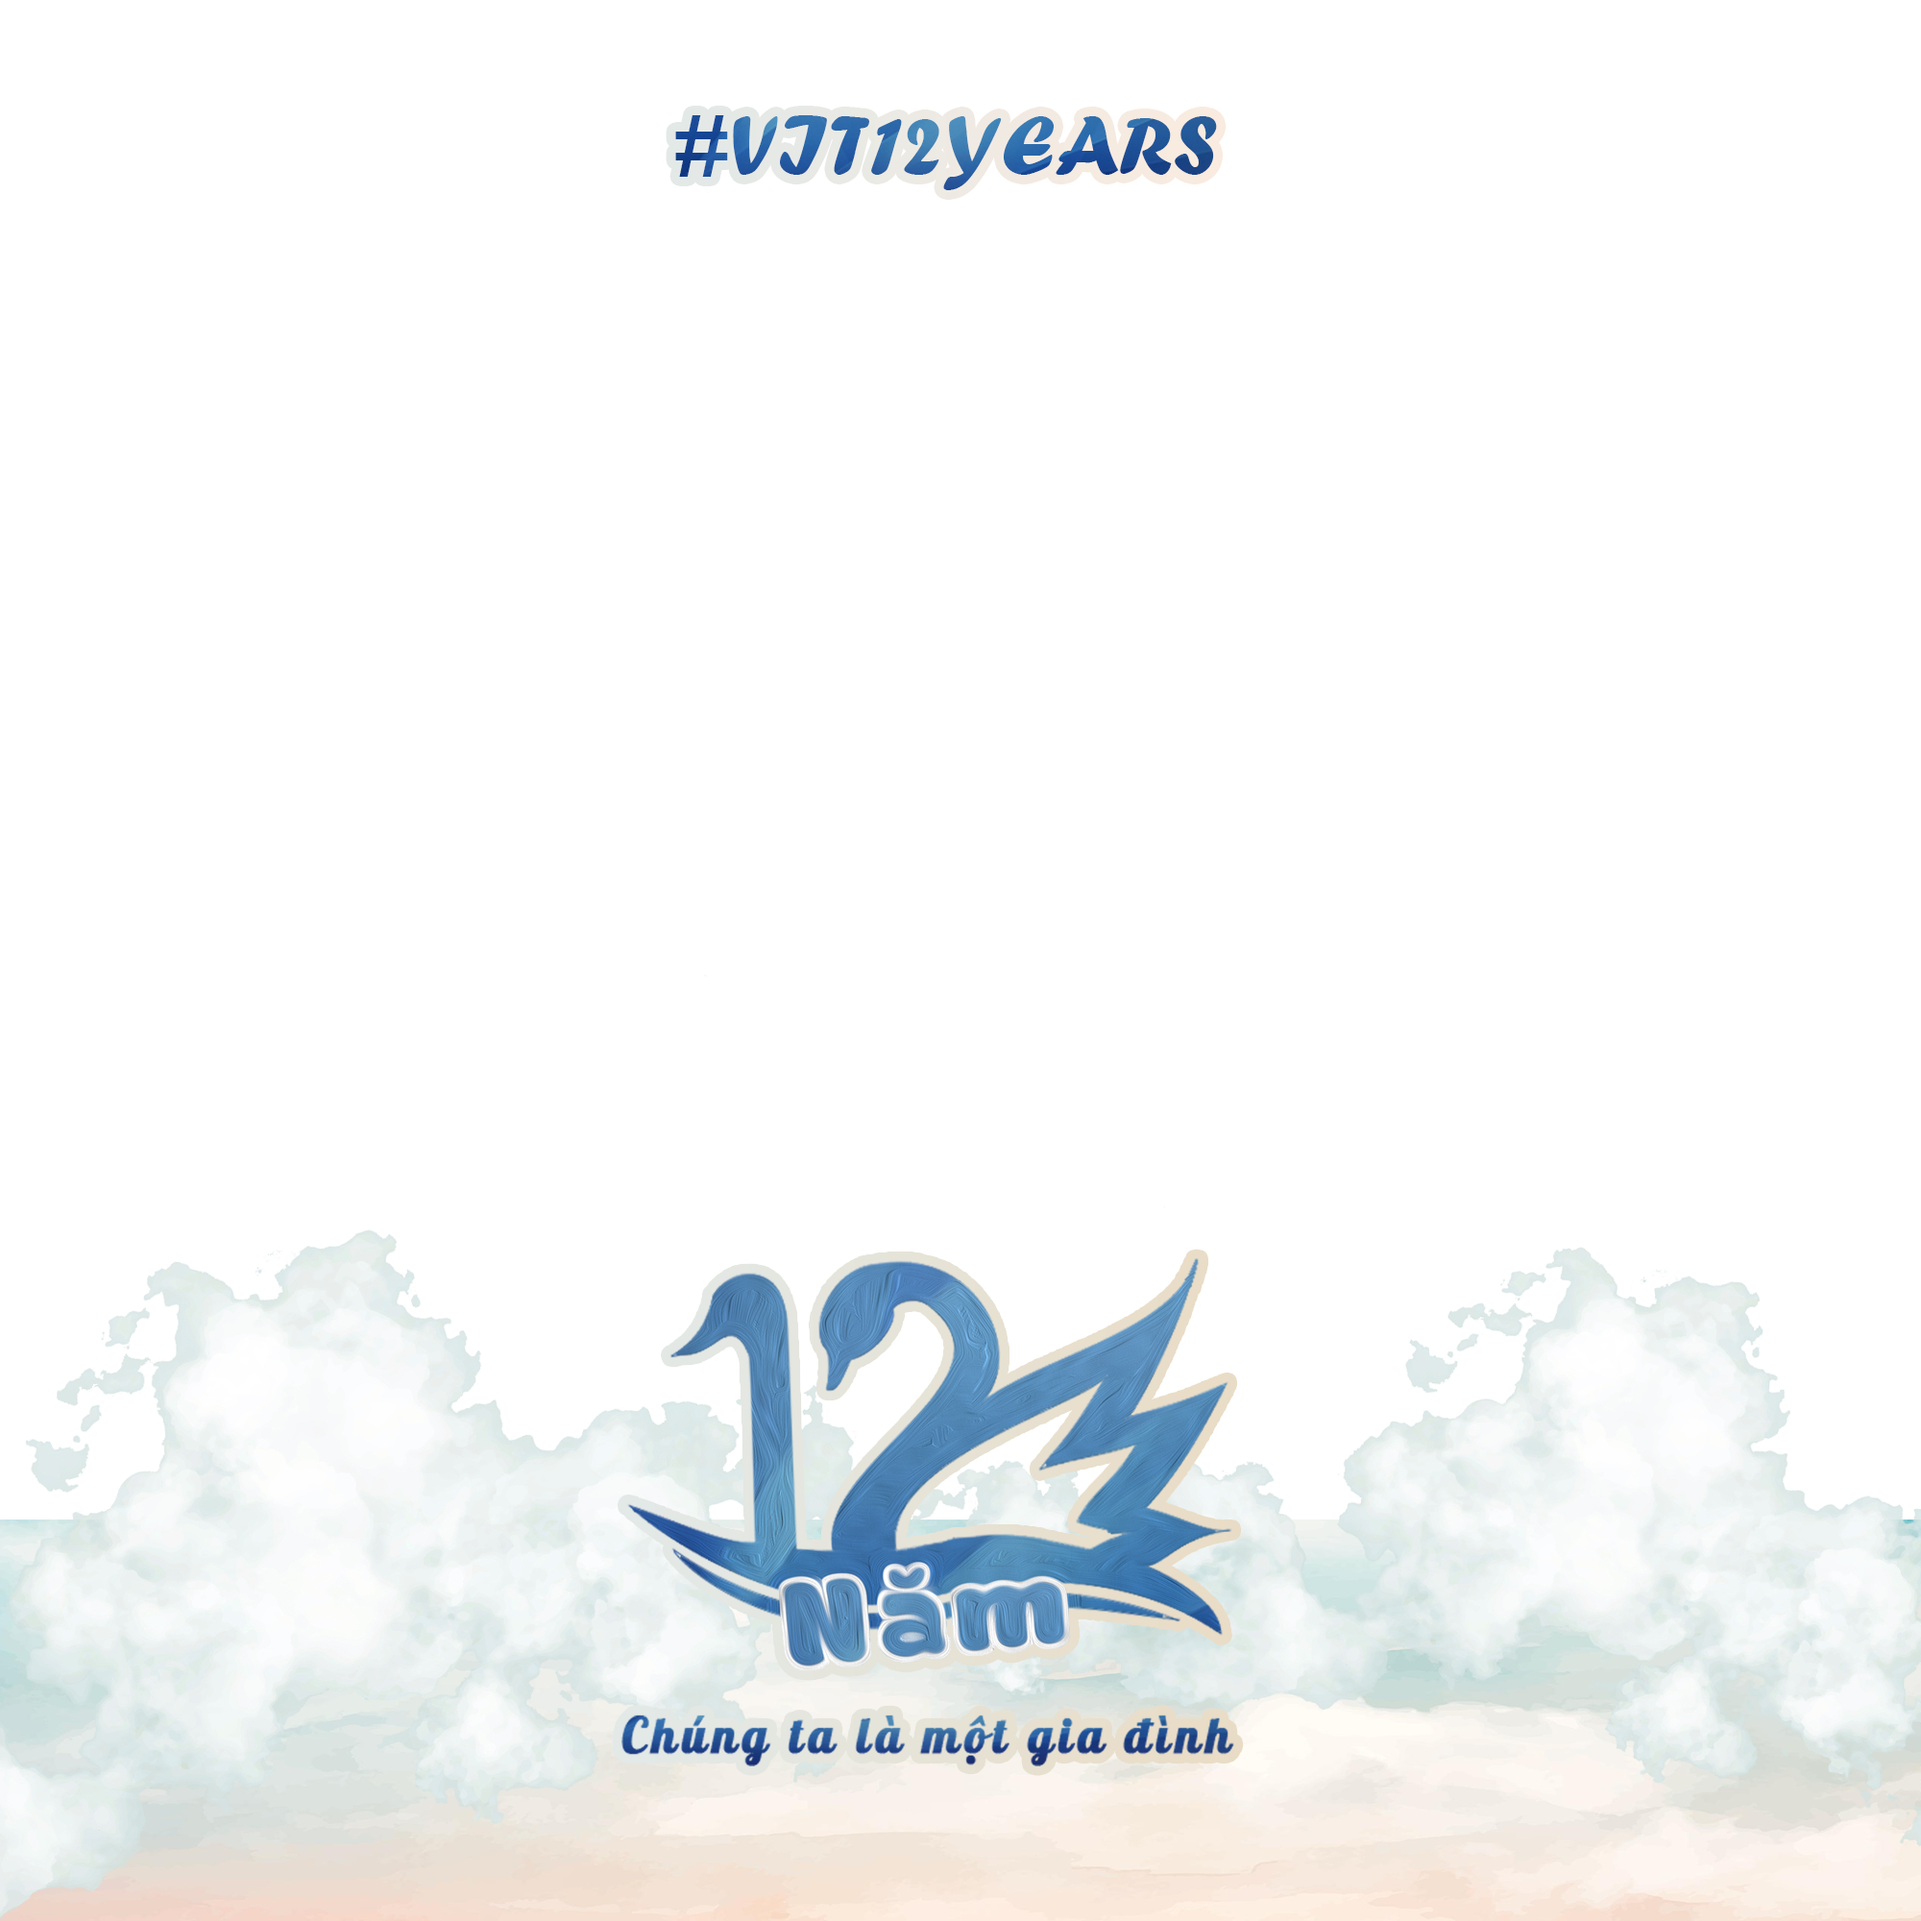
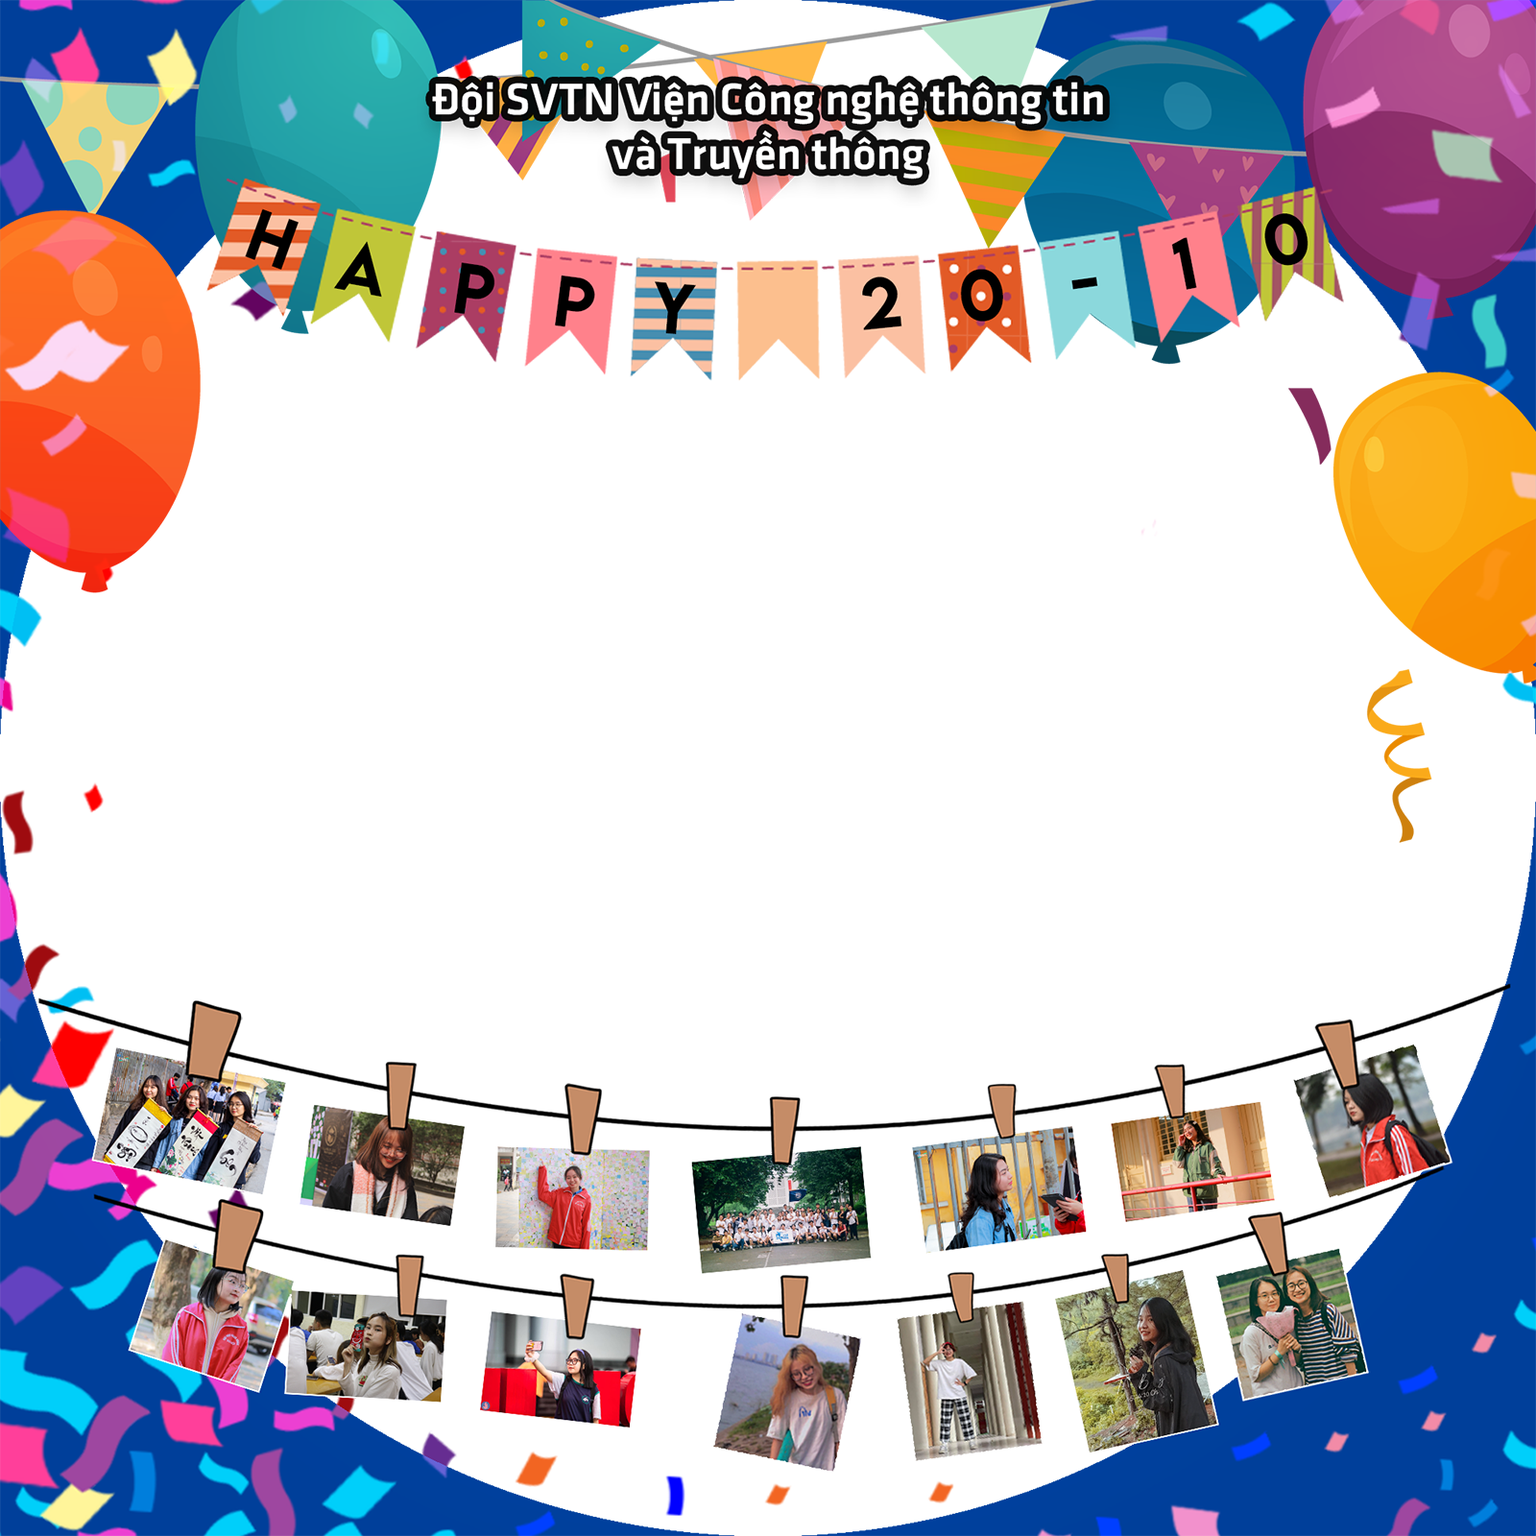
"update frames for 20/10"

diff --git a/main.js b/main.js
@@ -1,57 +1,79 @@
+// Size of the final image
 var finalSize;
+
+// Frame URL that is suitable for the user's file (400px, 800px, 1200px, 1600px, 2000px)
 var frameUrl;
 
+// When upload button is clicked, trigger the upload progress
 function uploadFile(event) {
+    // Selected file
     var selectedFile = event.target.files[0];
 
+    // File reader
     var fileReader = new FileReader();
 
-    $('#preview').croppie({
+    // Init croppie
+    $("#preview").croppie({
+        // Viewport size
         viewport: {
             width: 500,
-            height: 500
-        }
+            height: 500,
+        },
     });
 
+    // When file is uploaded
     fileReader.onload = function (e) {
-        $("#preview").croppie('bind', {
-            url: e.target.result
+        // Bind uploaded image to croppie
+        $("#preview").croppie("bind", {
+            url: e.target.result,
         });
 
         var image = new Image();
-        image.src = e.target.result
+        image.src = e.target.result;
 
         image.onload = function () {
+            // Get the smaller side of the image
             uploadImgSize = this.width < this.height ? this.width : this.height;
 
+            // Calculate the size of the final image
             finalSize = (Math.floor((uploadImgSize - 1) / 400) + 1) * 400;
             finalSize = finalSize > 2000 ? 2000 : finalSize;
 
-            frameUrl = "./frames/frame" + finalSize + ".png"
+            // Define the frame URL
+            frameUrl = "./frames/frame" + finalSize + ".png";
 
+            // Display the frame
             $("#frame").css("visibility", "visible");
             $("#frame").attr("src", frameUrl);
         };
-    }
+    };
 
     fileReader.readAsDataURL(selectedFile);
 }
 
+// When download button is clicked, create the final image and allow user to download it
 function confirmFile() {
+    // Size of the final image to apply to croppie
     sizeOpt = { width: finalSize, height: finalSize };
-    $("#preview").croppie('result', {
-        type: "canvas",
-        size: sizeOpt,
-        resultSize: sizeOpt
-    }).then(function (resp) {
-        mergeImages([resp, { src: frameUrl }]).then(b64 => {
-            var downloadLink = $("<a>")
-                .attr("href", b64)
-                .attr("download", "img.png")
-                .css("visibility", "hidden")
-                .appendTo("body");
-            downloadLink[0].click();
-            downloadLink.remove();
+
+    // Create the final image with croppie
+    $("#preview")
+        .croppie("result", {
+            type: "canvas",
+            size: sizeOpt,
+            resultSize: sizeOpt,
+        })
+        .then(function (resp) {
+            // Merge user's image with the frame
+            mergeImages([resp, { src: frameUrl }]).then((b64) => {
+                // Trigger download
+                var downloadLink = $("<a>")
+                    .attr("href", b64)
+                    .attr("download", "img.png")
+                    .css("visibility", "hidden")
+                    .appendTo("body");
+                downloadLink[0].click();
+                downloadLink.remove();
+            });
         });
-    });
 }

diff --git a/index.html b/index.html
@@ -3,7 +3,7 @@
 <html>
 
 <head>
-  <title>VIT 12th Facebook Frame Maker</title>
+  <title>VIT 20/10/2021 Frame Maker</title>
   <script src="https://ajax.googleapis.com/ajax/libs/jquery/3.5.1/jquery.min.js"></script>
   <script src="https://cdnjs.cloudflare.com/ajax/libs/croppie/2.6.5/croppie.min.js"></script>
   <script src="https://unpkg.com/merge-images"></script>
@@ -13,7 +13,7 @@
 </head>
 
 <body>
-  <h1 class="text-center">VIT 12th Birthday Facebook Frame Maker</h1>
+  <h1 class="text-center">VIT 20/10/2021 Frame Maker</h1>
   <div id="about">
     <p class="text-italic">
       Hướng dẫn: Nhấn "Choose File"/"Chọn tệp" để tải ảnh lên và căn chỉnh, sau đó nhấn "Download" để tải
@@ -21,7 +21,7 @@
       <br>
       Lưu ý:  Up file có định dạng .jpg, .jpeg, .png ...
       <br>
-      <span>&emsp;&emsp;&emsp;</span>Chất lượng ảnh tốt nhất trong khoảng (400px, 2400px)
+      <span>&emsp;&emsp;&emsp;</span>Chất lượng ảnh tốt nhất trong khoảng: 400px - 2400px
       2400
     </p>
   </div>
@@ -31,8 +31,8 @@
       <button onclick="confirmFile()">Download</button>
     </div>
     <div id="preview">
-      <img src="" id="frame"></img>
-      <img src="" id="profile-pic" style="display: none">
+      <img src="#" id="frame">
+      <img src="#" id="profile-pic" style="display: none">
     </div>
   </div>
   <div class="footer text-italic">
